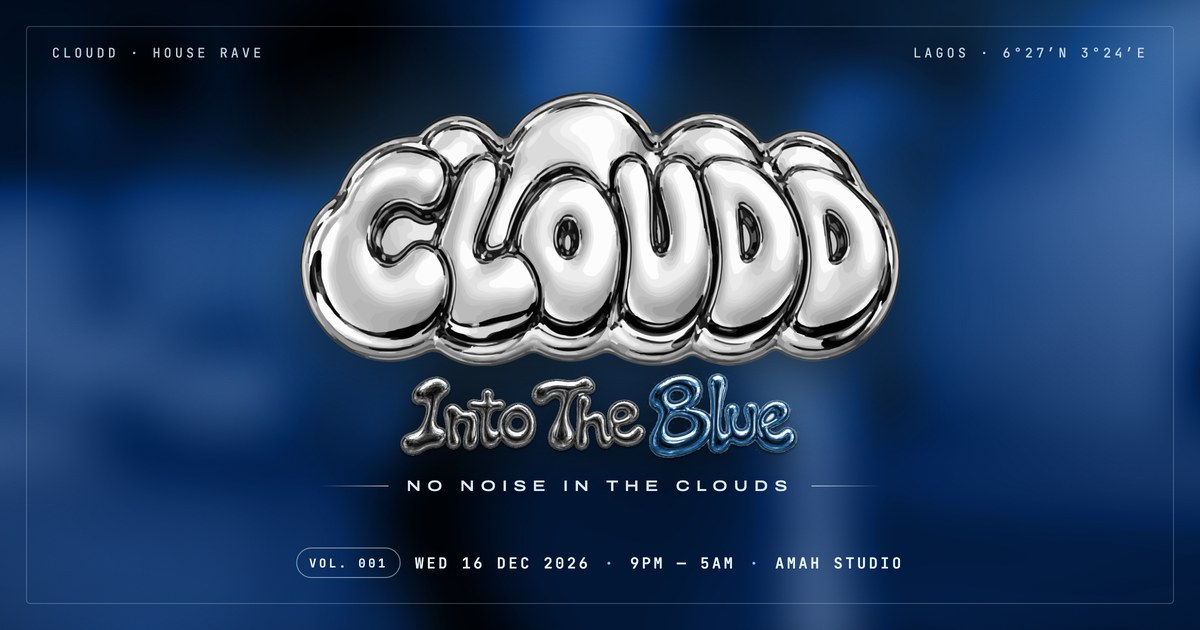
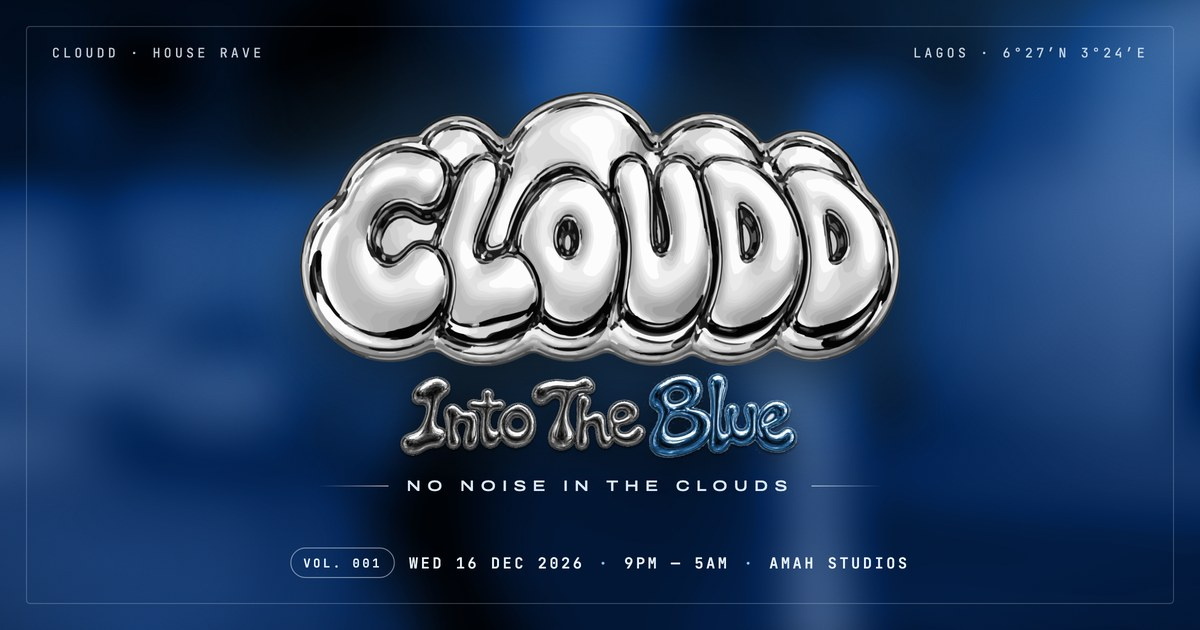
Amah Studios everywhere; step 3 says Doors open at 9pm
Venue renamed in the page, FAQ, departures board, tape, ticket pop-up, share tags and share card.

Changed region(s): [[0.5242, 0.8746, 0.7708, 0.9048], [0.2467, 0.8746, 0.4933, 0.9048]]

diff --git a/index.html b/index.html
@@ -5,23 +5,23 @@
 <meta http-equiv="Content-Security-Policy" content="default-src 'self'; script-src 'self' 'unsafe-inline'; style-src 'self' 'unsafe-inline' https://fonts.googleapis.com; font-src https://fonts.gstatic.com data:; img-src 'self' data: blob: https://bmrhejmutccvjzijuqae.supabase.co; media-src 'self'; connect-src 'self' data: https://bmrhejmutccvjzijuqae.supabase.co; manifest-src 'self'; object-src 'none'; base-uri 'none'; form-action 'none'">
 <meta name="viewport" content="width=device-width, initial-scale=1, viewport-fit=cover">
 <title>CLOUDD - Into The Blue</title>
-<meta name="description" content="A European house and Afro house rave in Lagos. Wed 16 December 2026, 9PM — 5AM at Amah Studio. Tickets on sale now.">
+<meta name="description" content="A European house and Afro house rave in Lagos. Wed 16 December 2026, 9PM — 5AM at Amah Studios. Tickets on sale now.">
 <link rel="canonical" href="https://clouddsessions.com/">
 <meta property="og:type" content="website">
 <meta property="og:site_name" content="CLOUDD">
 <meta property="og:url" content="https://clouddsessions.com/">
 <meta property="og:title" content="CLOUDD - Into The Blue">
-<meta property="og:description" content="A European house and Afro house rave in Lagos. Wed 16 December 2026, 9PM — 5AM at Amah Studio. Tickets on sale now.">
+<meta property="og:description" content="A European house and Afro house rave in Lagos. Wed 16 December 2026, 9PM — 5AM at Amah Studios. Tickets on sale now.">
 <meta property="og:image" content="https://clouddsessions.com/og-image.jpg">
 <meta property="og:image:secure_url" content="https://clouddsessions.com/og-image.jpg">
 <meta property="og:image:type" content="image/jpeg">
 <meta property="og:image:width" content="1200">
 <meta property="og:image:height" content="630">
-<meta property="og:image:alt" content="CLOUDD chrome logo with Into The Blue, Vol. 001, Wed 16 Dec 2026, 9PM to 5AM, Amah Studio, Lagos">
+<meta property="og:image:alt" content="CLOUDD chrome logo with Into The Blue, Vol. 001, Wed 16 Dec 2026, 9PM to 5AM, Amah Studios, Lagos">
 <meta property="og:locale" content="en_NG">
 <meta name="twitter:card" content="summary_large_image">
 <meta name="twitter:title" content="CLOUDD - Into The Blue">
-<meta name="twitter:description" content="A European house and Afro house rave in Lagos. Wed 16 December 2026, 9PM — 5AM at Amah Studio. Tickets on sale now.">
+<meta name="twitter:description" content="A European house and Afro house rave in Lagos. Wed 16 December 2026, 9PM — 5AM at Amah Studios. Tickets on sale now.">
 <meta name="twitter:image" content="https://clouddsessions.com/og-image.jpg">
 <meta name="theme-color" content="#071224">
 <meta name="apple-mobile-web-app-title" content="CLOUDD">
@@ -50,7 +50,7 @@
     <div class="a"><span>CLOUDD</span><span>House rave</span></div>
     <div class="b"><span>Lagos</span><span>6°27′N 3°24′E</span></div>
     <div class="c"><span>Detty December</span><span>2026</span></div>
-    <div class="d"><span><a href="#tickets">Tickets on sale</a></span><span>Amah Studio, Lagos</span></div>
+    <div class="d"><span><a href="#tickets">Tickets on sale</a></span><span>Amah Studios, Lagos</span></div>
   </header>
 
   <main>
@@ -91,7 +91,7 @@
           <div class="trl-copy">
             <p class="trl-k">Official trailer · 0:14</p>
             <h2 class="itb"><img src="into-the-blue.webp" alt="Into the Blue" width="858" height="191"><span class="wide">Cloudd · vol. 001</span></h2>
-            <dl class="trl-dl"><div><dt>Date</dt><dd>Wed 16 Dec 2026</dd></div><div><dt>Hours</dt><dd>9PM — 5AM</dd></div><div><dt>Where</dt><dd>Amah Studio, Lagos</dd></div><div><dt>Sound</dt><dd>Afro + European house</dd></div></dl>
+            <dl class="trl-dl"><div><dt>Date</dt><dd>Wed 16 Dec 2026</dd></div><div><dt>Hours</dt><dd>9PM — 5AM</dd></div><div><dt>Where</dt><dd>Amah Studios, Lagos</dd></div><div><dt>Sound</dt><dd>Afro + European house</dd></div></dl>
             <div class="trl-cta">
               <a class="press" href="#tickets">GET TICKETS <span class="arrow" aria-hidden="true">→</span></a>
               <a class="alt-link mono emboss" href="#list">or join the cloud list for updates</a>
@@ -118,14 +118,14 @@
           <article class="step">
             <div class="n">03</div>
             <h4>Pull up</h4>
-            <p id="step3">Wednesday 16 December at Amah Studio, Lagos. Bring your ticket to the gate. Doors at 9pm.</p>
+            <p id="step3">Wednesday 16 December at Amah Studios, Lagos. Bring your ticket to the gate. Doors open at 9pm.</p>
           </article>
         </div>
       </div>
     </section>
 
     <div class="tape-wrap" aria-hidden="true">
-      <div class="tape a"><div class="run cond"><span>No noise in the clouds <i>☁</i> 16.12.26 <i>☁</i> Amah Studio <i>☁</i> 9PM — 5AM <i>☁</i></span><span>No noise in the clouds <i>☁</i> 16.12.26 <i>☁</i> Amah Studio <i>☁</i> 9PM — 5AM <i>☁</i></span></div></div>
+      <div class="tape a"><div class="run cond"><span>No noise in the clouds <i>☁</i> 16.12.26 <i>☁</i> Amah Studios <i>☁</i> 9PM — 5AM <i>☁</i></span><span>No noise in the clouds <i>☁</i> 16.12.26 <i>☁</i> Amah Studios <i>☁</i> 9PM — 5AM <i>☁</i></span></div></div>
       <div class="tape b"><div class="run cond"><span>Afro house <i>✦</i> European house <i>✦</i> Vol. 001 <i>✦</i> Into the blue <i>✦</i></span><span>Afro house <i>✦</i> European house <i>✦</i> Vol. 001 <i>✦</i> Into the blue <i>✦</i></span></div></div>
     </div>
 
@@ -156,7 +156,7 @@
             <div class="main">
               <div class="top"><span>Boarding pass · Vol. 001</span><span>Early Bird</span></div>
               <div class="route"><div><b class="cond">LOS</b><small>Lagos</small></div><i></i><div><b class="cond">CLD</b><small>The clouds</small></div></div>
-              <div class="row"><div>Date<b>WED 16 DEC</b></div><div>Doors<b>21:00</b></div><div>Gate<b>Amah Studio</b></div></div>
+              <div class="row"><div>Date<b>WED 16 DEC</b></div><div>Doors<b>21:00</b></div><div>Gate<b>Amah Studios</b></div></div>
               <div class="price cond">₦18,000</div>
             </div>
             <div class="stub"><span class="adm">Admit one</span><div class="bar"></div><span class="go">GET →</span></div>
@@ -203,7 +203,7 @@
             <p>Still lost? Ask on the <a href="#join">WhatsApp community</a>. Someone from the crew answers.</p>
           </div>
           <div class="faq-box">
-            <details open><summary>Where is Amah Studio?<span class="pm">+</span></summary><p>Full address and map pin go to ticket holders and the WhatsApp community the week of the party.</p></details>
+            <details open><summary>Where is Amah Studios?<span class="pm">+</span></summary><p>Full address and map pin go to ticket holders and the WhatsApp community the week of the party.</p></details>
             <details><summary>It's a Wednesday. When should I come?<span class="pm">+</span></summary><p>Doors 9PM, music until 5AM. Set times drop on the list the day before.</p></details>
             <details><summary>How do I get there and home?<span class="pm">+</span></summary><p>Ride-hailing drop-off at the gate. Limited parking. We'll share the best 5AM pickup spot.</p></details>
             <details><summary>Can I transfer my ticket?<span class="pm">+</span></summary><p>Yes, through Tix Africa. Tickets are non-refundable.</p></details>
@@ -360,7 +360,7 @@
   </footer>
 </div>
 
-<script src="site.js?v=51e5fef4"></script>
+<script src="site.js?v=a11cff76"></script>
 
 <script>
 (function(){var el=document.getElementById("count");if(!el)return;

diff --git a/site.js b/site.js
@@ -13,7 +13,7 @@ const CONFIG = {
   eventDate: "2026-12-16T21:00:00+01:00",  // first edition start, Lagos time
   date: "WED 16 DECEMBER 2026",
   time: "9PM — 5AM",
-  place: "amah studio, lagos",
+  place: "amah studios, lagos",
   /* tickets: checkout happens on Tix Africa (it can't be embedded in another site) */
   ticketUrl: "https://tix.africa/discover/cloudd-sessions/checkout?step=tickets",
   ticketsFrom: "₦18,000"    // lowest price on sale; update when Early Bird sells out
